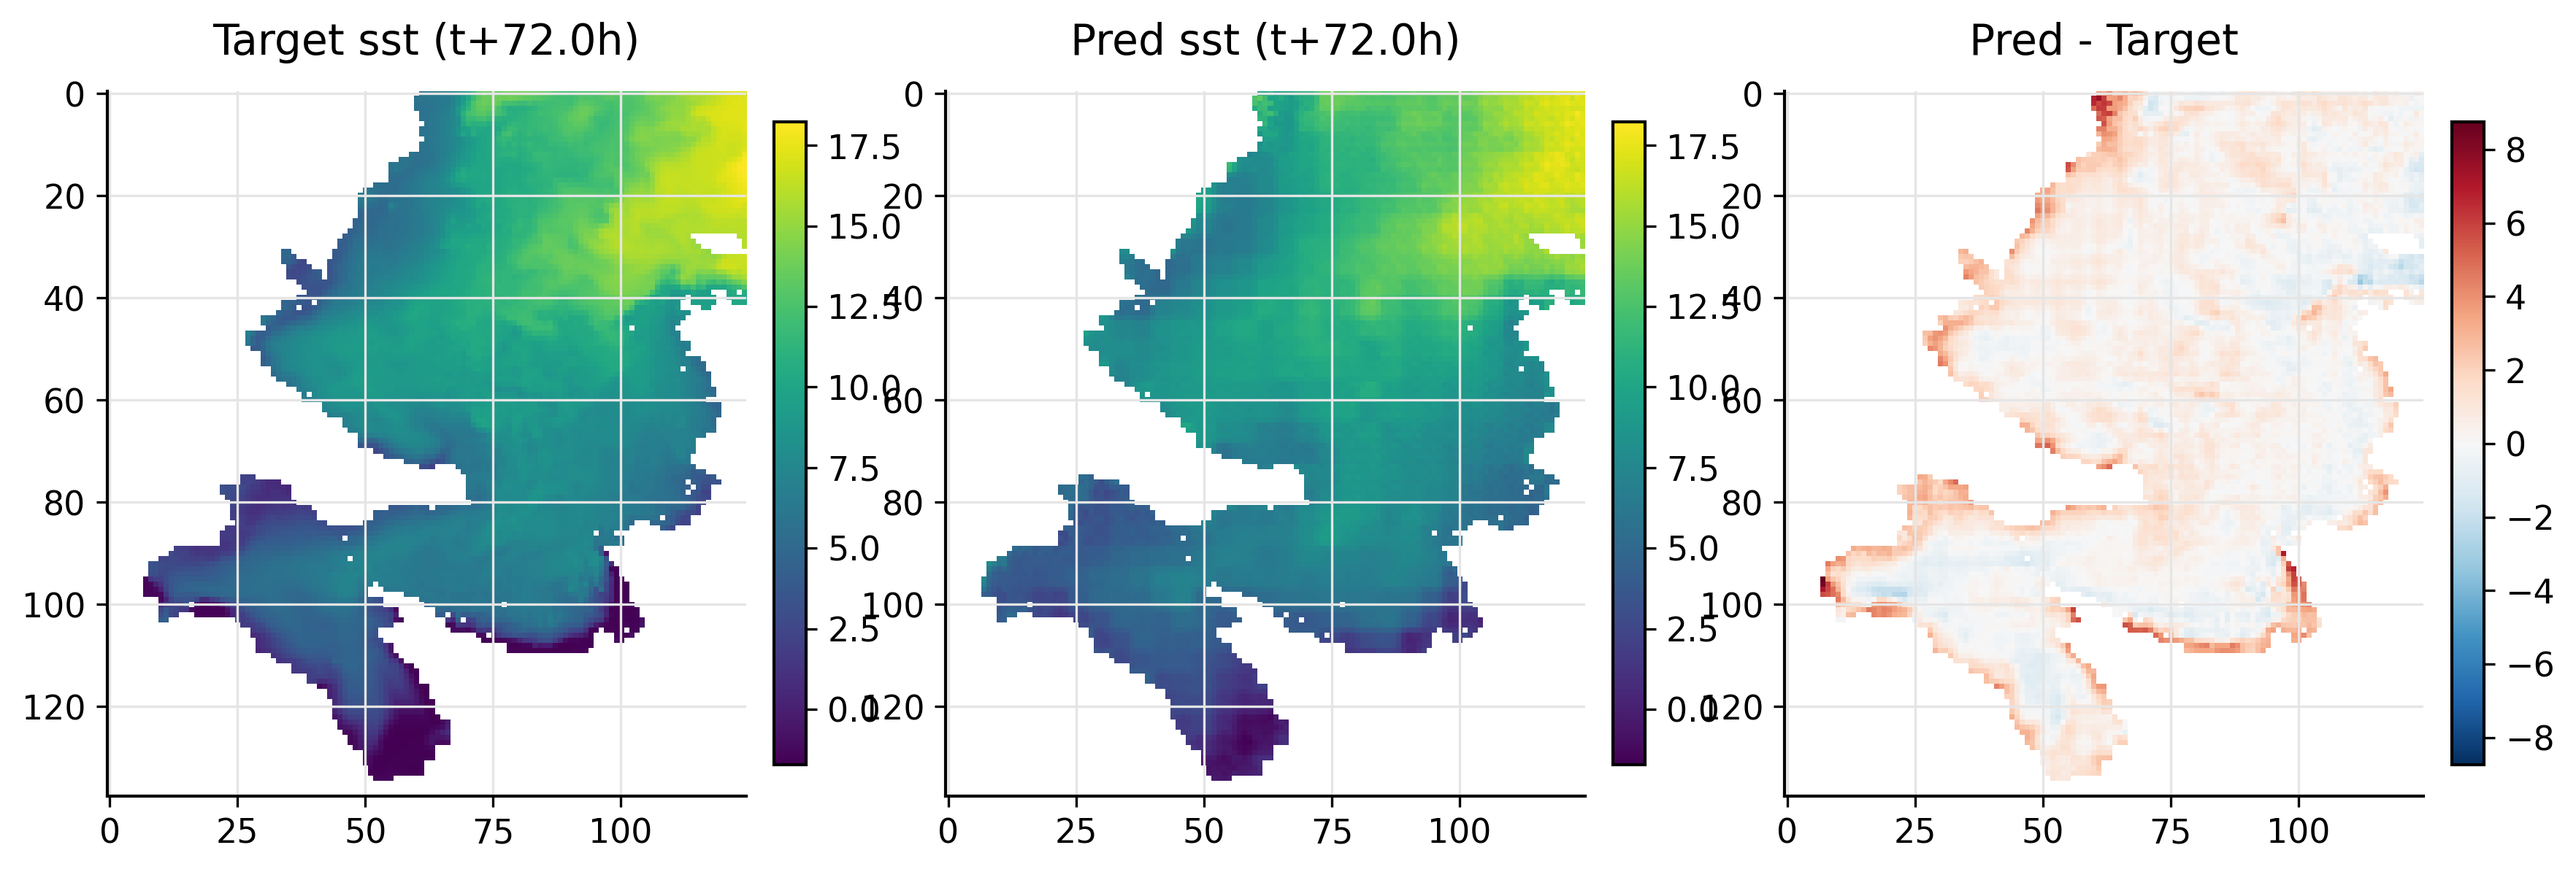
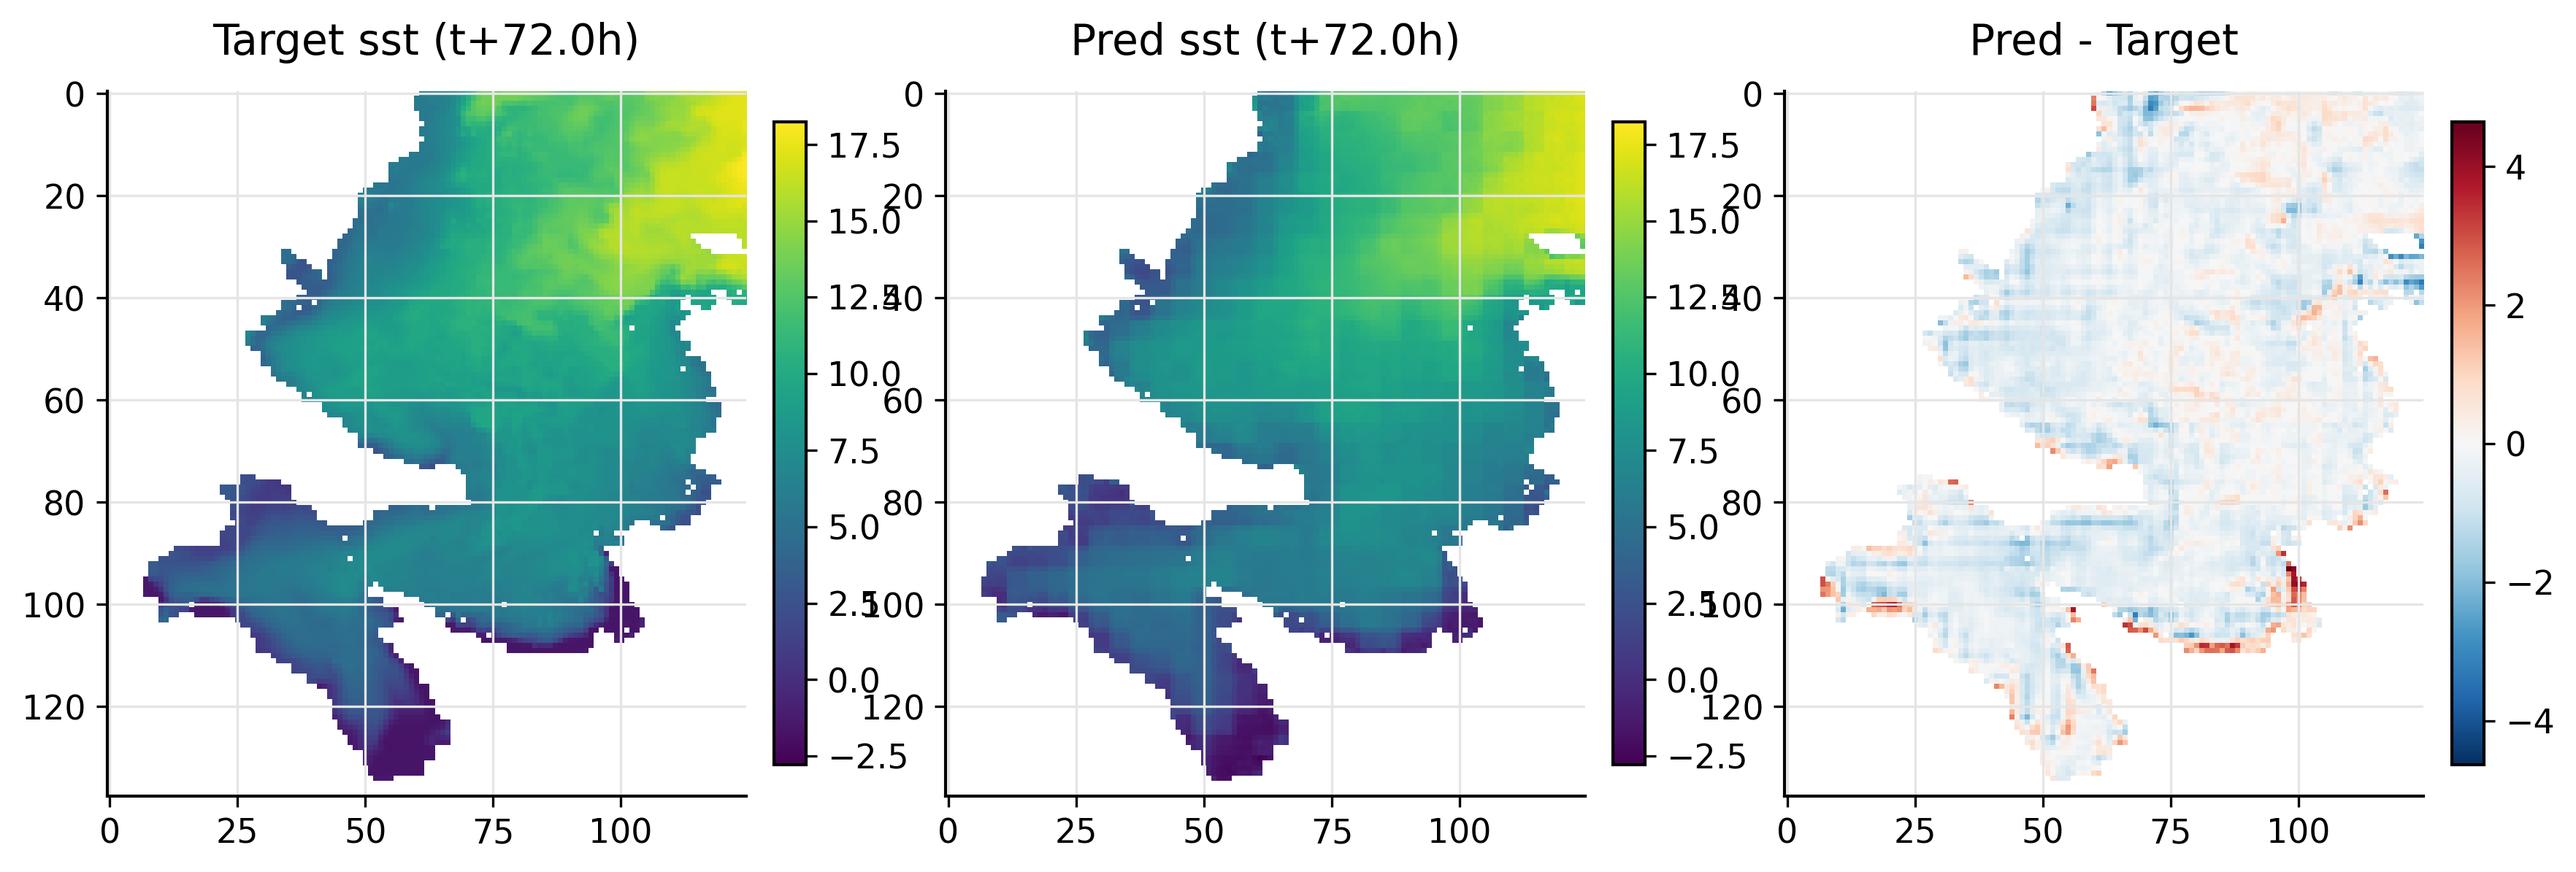
统一分支进度

diff --git a/src/element_forecasting/trainer.py b/src/element_forecasting/trainer.py
@@ -480,7 +480,15 @@ def run_training(args: argparse.Namespace) -> None:
 	history: list[dict[str, float]] = []
 
 	_log.info(
-		"start training | vars=%s | split_mode=%s | in/out=%d/%d | rollout=%d(gamma=%.2f) | val_target_steps=%d | overlap_blend=%s/%d | ss=%s(eps %.2f->%.2f) | amp=%s",
+		"start training\n"
+		"  vars=%s\n"
+		"  split_mode=%s\n"
+		"  in/out=%d/%d\n"
+		"  rollout=%d (gamma=%.2f)\n"
+		"  val_target_steps=%d\n"
+		"  overlap_blend=%s/%d\n"
+		"  scheduled_sampling=%s (eps %.2f->%.2f)\n"
+		"  amp=%s",
 		list(var_names),
 		split_mode,
 		input_steps,
@@ -496,7 +504,14 @@ def run_training(args: argparse.Namespace) -> None:
 		amp_enabled,
 	)
 	_log.info(
-		"data=%s | split=(%.2f,%.2f,%.2f) | split_years=%s | windows train/val=%d/%d | batch=%d accum=%d workers=%d",
+		"data setup\n"
+		"  data=%s\n"
+		"  split_ratio=(%.2f,%.2f,%.2f)\n"
+		"  split_years=%s\n"
+		"  windows train/val=%d/%d\n"
+		"  batch=%d\n"
+		"  grad_accum_steps=%d\n"
+		"  workers=%d",
 		str(data_file),
 		train_ratio,
 		val_ratio,

diff --git a/src/element_forecasting/README.md b/src/element_forecasting/README.md
@@ -47,10 +47,11 @@
 
 1. 支持 AMP、梯度累积、多进程 DataLoader。
 2. 支持 spatial_downsample 以降低空间 token 数和显存压力。
-3. 训练损失由主损失、Transformer 辅助损失、空间均值约束、梯度一致性与可选边缘损失组成。
+3. 训练损失由主损失、Transformer 辅助损失、空间均值约束、梯度一致性与边缘损失组成；当前默认 `loss_gradient_consistency_weight=0.12`、`loss_edge_weight=0.03(sobel)`。
 4. 训练采用 rollout 多段监督；默认 `rollout_steps=3`、`rollout_gamma=1.0`，即 24h x 3 段对齐 72h 目标。
 5. Scheduled Sampling 默认从首个 epoch 开始，`epsilon` 由 `1.0` 按 cosine 衰减到 `0.08`，减轻训练-推理曝光偏差。
 6. 训练入口：scripts/04_train_forecast.py（默认走主模型；--baseline 走旧基线）。
+7. 当前推荐默认训练资源配置：`epochs=30`、`batch_size=8`、`num_workers=12`、`grad_accum_steps=4`（有效 batch 约为 32）。
 
 ### 验证与最优模型选择（已对齐赛题）
 
@@ -62,6 +63,8 @@
 ## 关键配置
 
 1. 模型配置：configs/element_forecasting/model.yaml
+   - multi_scale_enabled=false（关闭辅助 patch=8 融合，先抑制插值格纹）
+   - refine_head_hidden_ratio=1.5, refine_head_num_layers=4
    - d_model, nhead, num_layers, block_size, dropout, spatial_downsample
    - periodic_periods, periodic_harmonics
 
@@ -73,6 +76,7 @@
    - rollout_steps, rollout_gamma, val_target_steps
    - scheduled_sampling_start_epoch, scheduled_sampling_epsilon_start, scheduled_sampling_epsilon_min, scheduled_sampling_decay_type
    - overlap_blend_enabled, overlap_steps
+   - loss_gradient_consistency_weight=0.12, loss_edge_weight=0.03, edge_loss_type=sobel
 
 ## 评估指标 (Metrics)
 

diff --git a/outputs/final_results/element_forecasting/competition_single_file/competition_summary.md b/outputs/final_results/element_forecasting/competition_single_file/competition_summary.md
@@ -2,15 +2,15 @@
 
 - Verdict: PASS
 - Horizon: 72.00 h (threshold >= 72.00 h)
-- NRMSE: 1.2939% (threshold <= 15.0000%)
+- NRMSE: 1.1240% (threshold <= 15.0000%)
 
 ## Metrics
 
-- MSE: 0.220646
-- RMSE: 0.469730
-- NRMSE(%): 1.293880
-- MAE: 0.210008
-- NSE: 0.998760
+- MSE: 0.172251
+- RMSE: 0.415031
+- NRMSE(%): 1.124045
+- MAE: 0.205252
+- NSE: 0.999080
 
 ## Files
 
